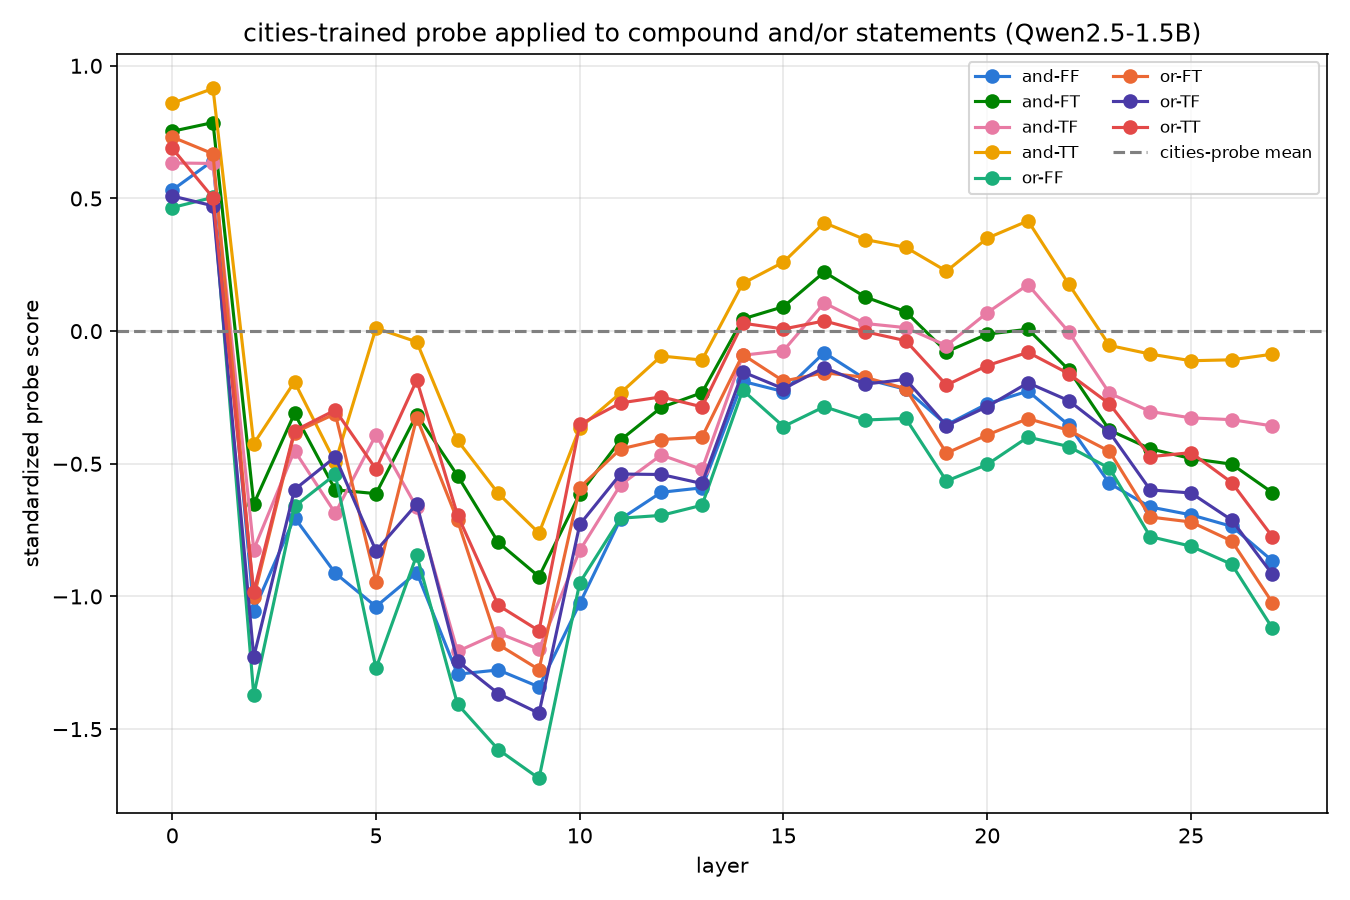
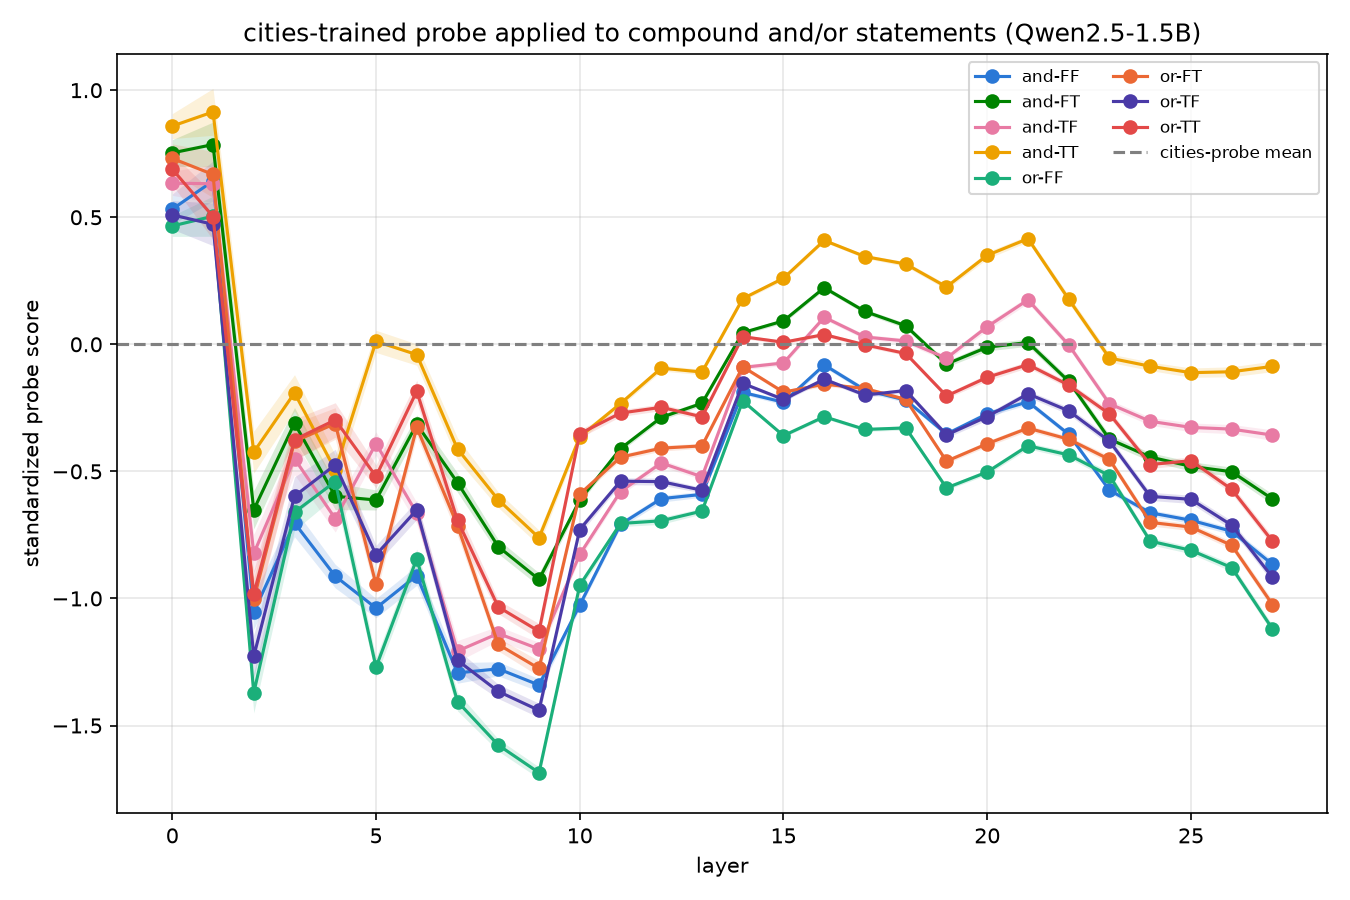
Add per-pattern panel plot and SEM error bands to compound transfer analysis
New two-panel figure (one per connective, shared y-axis) makes the
and/or comparison direct without manually subtracting out each
connective's overall level. Both figures now shade +/-SEM per point
(n~200/group) around each line.

diff --git a/scripts/probe_compound_transfer.py b/scripts/probe_compound_transfer.py
@@ -14,6 +14,8 @@ from src.probes import fit_probe
 
 MODEL_NAME = "Qwen2.5-1.5B"
 PALETTE = ["#2a78d6", "#008300", "#e87ba4", "#eda100", "#1baf7a", "#eb6834", "#4a3aa7", "#e34948"]
+PATTERNS = ["TT", "TF", "FT", "FF"]
+PATTERN_COLORS = {"TT": "#2a78d6", "TF": "#008300", "FT": "#e87ba4", "FF": "#eda100"}
 
 acts_cities, labels_cities = load_activations("cities")
 acts_compound, _ = load_activations("compound_cities")
@@ -31,9 +33,20 @@ for L in range(n_layers):
     ref = probe.decision_function(acts_cities[:, L])  # standardize against the probe's own training distribution
     scores_by_layer[:, L] = (raw - ref.mean()) / ref.std()
 
+def mean_and_sem(rows):
+    """Per-layer mean and standard error of the mean for a set of statement rows."""
+    vals = scores_by_layer[rows]
+    mean = vals.mean(axis=0)
+    sem = vals.std(axis=0, ddof=1) / np.sqrt(vals.shape[0])
+    return mean, sem
+
+
+group_idx = meta.groupby("group").groups
 group_means = pd.DataFrame(
-    {group: scores_by_layer[idx].mean(axis=0) for group, idx in meta.groupby("group").groups.items()},
-    index=layers,
+    {group: mean_and_sem(idx)[0] for group, idx in group_idx.items()}, index=layers
+)
+group_sems = pd.DataFrame(
+    {group: mean_and_sem(idx)[1] for group, idx in group_idx.items()}, index=layers
 )
 group_means.index.name = "layer"
 
@@ -46,7 +59,9 @@ print(f"saved {results_dir}/cities_probe_scores.npy and {results_dir}/cities_pro
 
 plt.figure(figsize=(9, 6))
 for color, group in zip(PALETTE, group_means.columns):
-    plt.plot(layers, group_means[group], color=color, marker="o", label=group)
+    mean, sem = group_means[group], group_sems[group]
+    plt.plot(layers, mean, color=color, marker="o", label=group)
+    plt.fill_between(layers, mean - sem, mean + sem, color=color, alpha=0.15, linewidth=0)
 plt.axhline(0, linestyle="--", color="gray", label="cities-probe mean")
 plt.xlabel("layer")
 plt.ylabel("standardized probe score")
@@ -58,4 +73,27 @@ plt.tight_layout()
 os.makedirs("figures/transfer", exist_ok=True)
 out_path = "figures/transfer/cities_probe_on_compound.png"
 plt.savefig(out_path, dpi=150)
+print(f"saved {out_path}")
+
+# one panel per connective, sharing a y-axis, so the two profiles (how score
+# varies across conjunct pattern) can be compared directly without needing
+# to subtract out and/or's different overall level by hand.
+fig, axes = plt.subplots(1, 2, figsize=(12, 4.5), sharey=True)
+for ax, conn in zip(axes, ["and", "or"]):
+    for pat in PATTERNS:
+        m = ((meta.connective == conn) & (meta.pattern == pat)).values
+        mean, sem = mean_and_sem(m)
+        ax.plot(layers, mean, color=PATTERN_COLORS[pat], marker="o", label=pat)
+        ax.fill_between(layers, mean - sem, mean + sem, color=PATTERN_COLORS[pat], alpha=0.15, linewidth=0)
+    ax.axhline(0, color="gray", linestyle="--", linewidth=1)
+    ax.set_title(f'"{conn}" compounds')
+    ax.set_xlabel("layer")
+    ax.grid(alpha=0.3)
+axes[0].set_ylabel("mean probe score (z, cities scale)")
+axes[0].legend(title="conjunct pattern")
+fig.suptitle(f"cities-trained probe on compound statements, by pattern ({MODEL_NAME})")
+fig.tight_layout()
+
+out_path = "figures/transfer/compound_scores_by_layer.png"
+fig.savefig(out_path, dpi=150)
 print(f"saved {out_path}")
